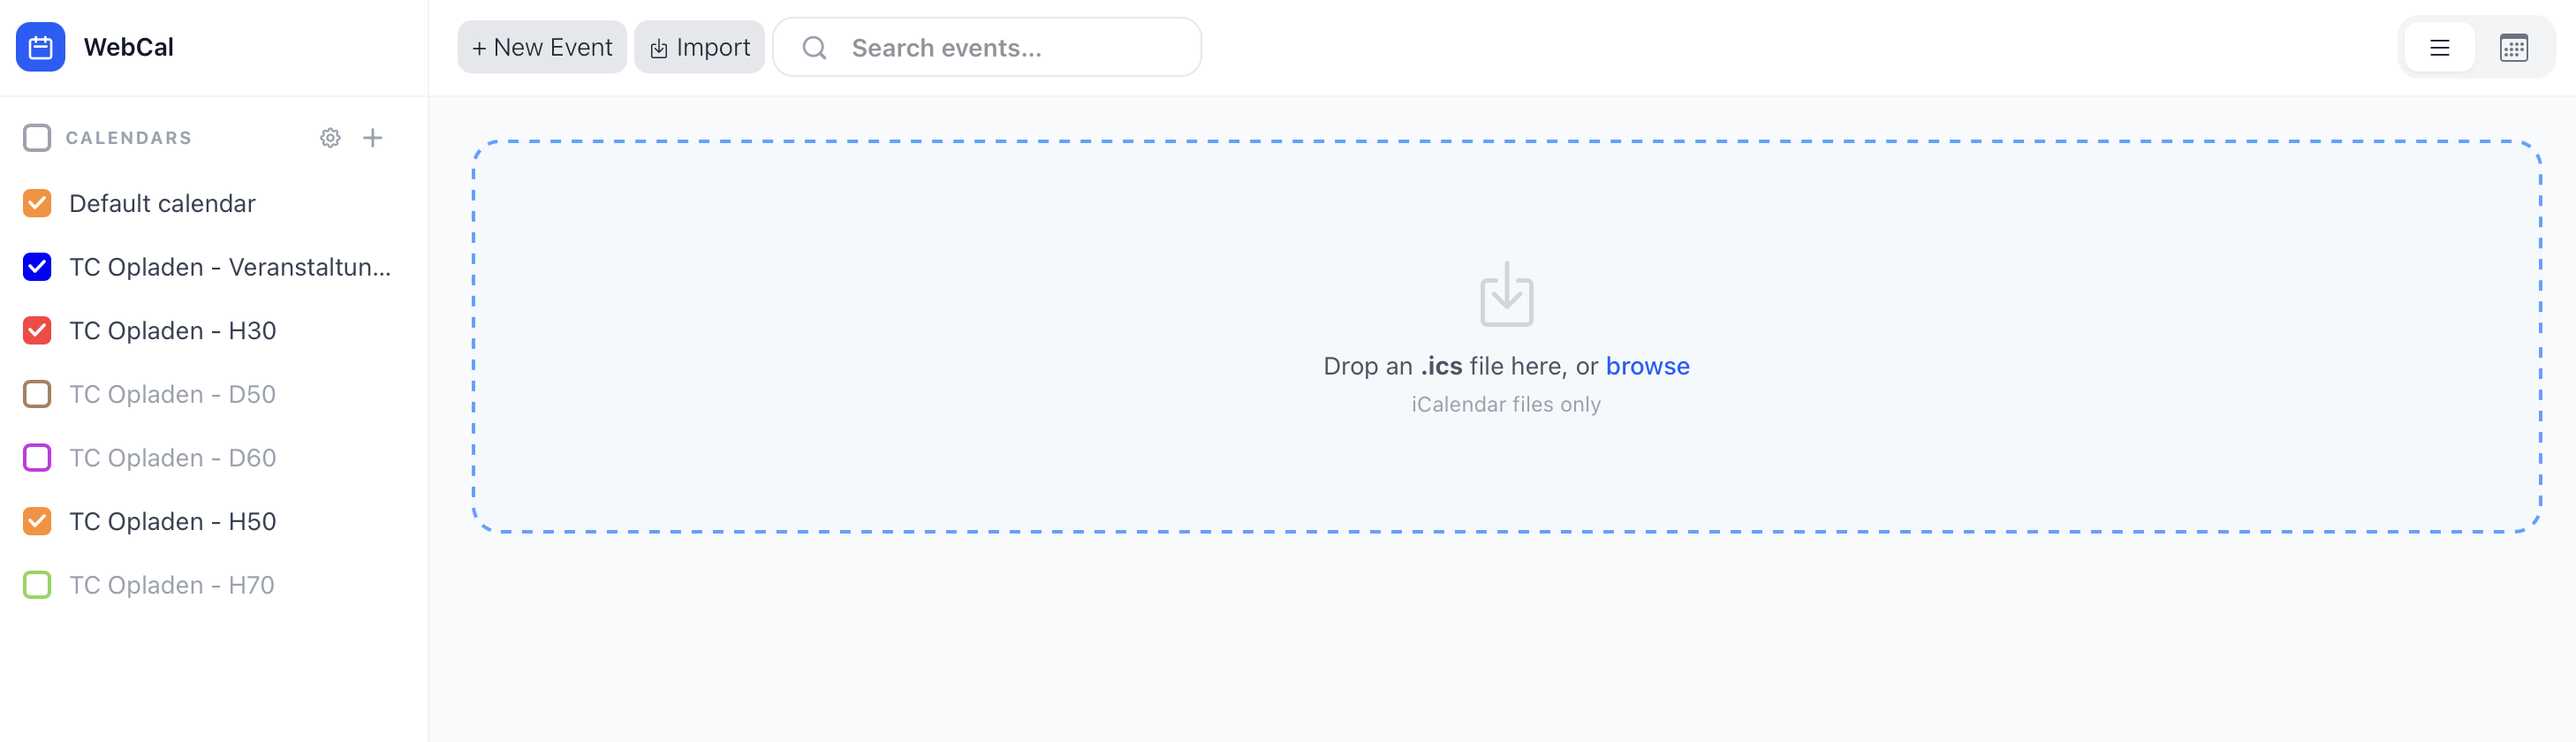
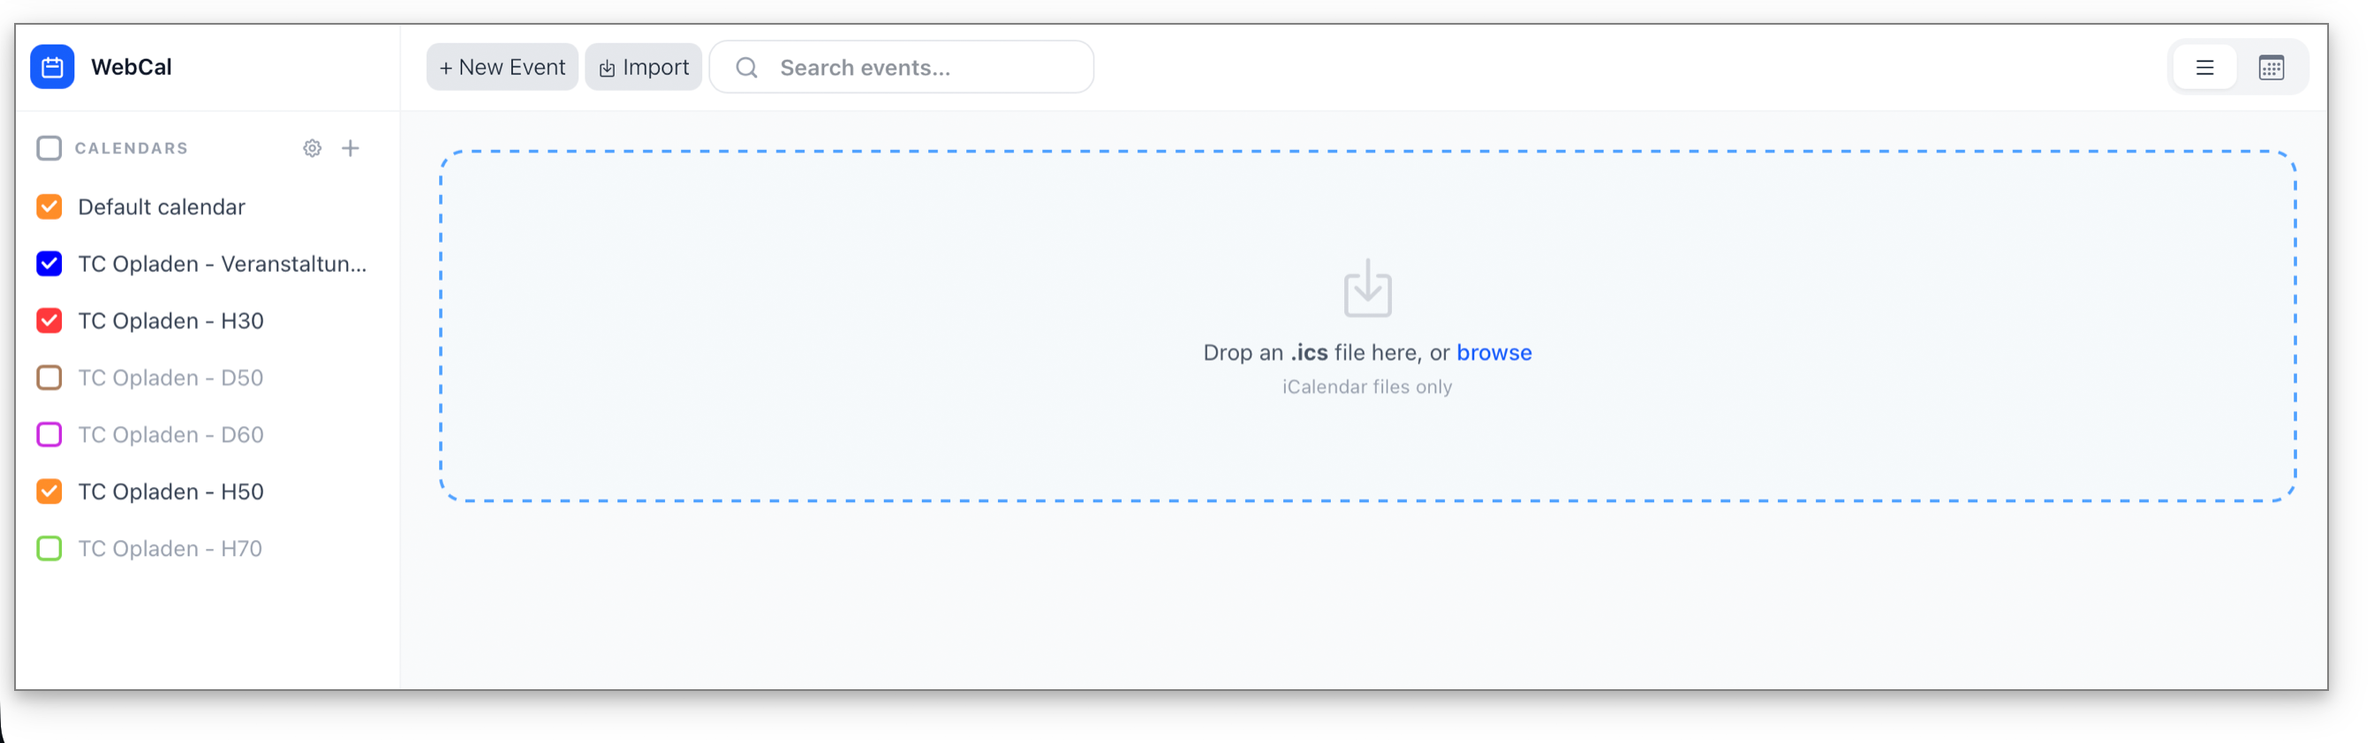
update readme

diff --git a/README.md b/README.md
@@ -14,9 +14,9 @@ WebCal connects to any CalDAV server and gives you a clean, responsive calendar 
 
 ## Features
 
-<img src="images/list-view.png" alt="List view" style="border:1px solid gray; box-shadow: 0 4px 8px 0 rgba(0, 0, 0, 0.2), 0 6px 20px 0 rgba(0, 0, 0, 0.19);"/>
-<img src="images/month-view.png" alt="Month view" style="border:1px solid gray; box-shadow: 0 4px 8px 0 rgba(0, 0, 0, 0.2), 0 6px 20px 0 rgba(0, 0, 0, 0.19);"/>
-<img src="images/import-ics.png" alt=".ics file import" style="border:1px solid gray; box-shadow: 0 4px 8px 0 rgba(0, 0, 0, 0.2), 0 6px 20px 0 rgba(0, 0, 0, 0.19);"/>
+![List view](images/list-view.png)
+![Month view](images/month-view.png)
+![.ics file import](images/import-ics.png)
 
 - **List and month views** with smooth navigation
 - **Create, edit, and delete events** across multiple calendars
